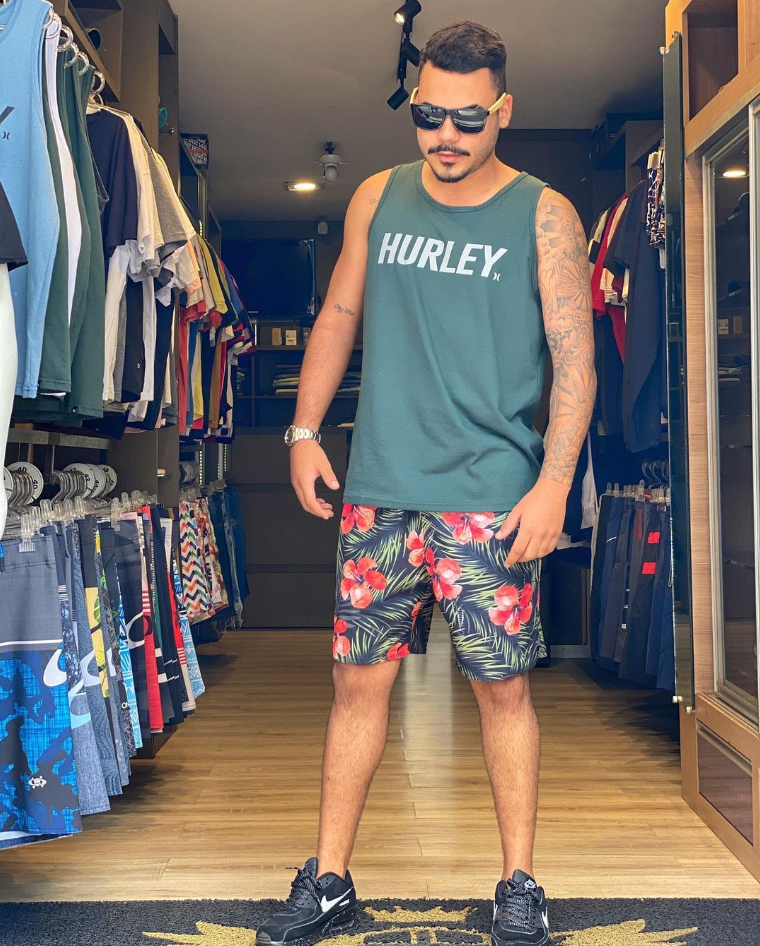
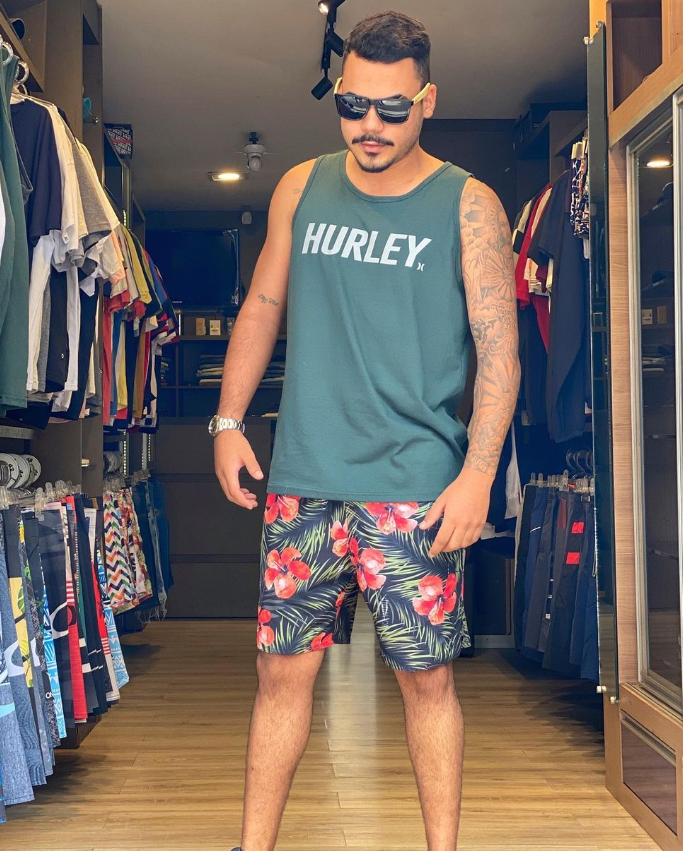
mudando tamanho da imagem

diff --git a/index.html b/index.html
@@ -47,7 +47,7 @@
         <section id="section1" class="container mt-4 pt-4 mb-5">
             <div class="row text-center">
                 <div class="col-12 col-lg-6 xxl-6 p-0">
-                    <img id="jaopedro" src="assets/jaozin.png" alt="" style="height:38rem">
+                    <img class="w-100 h-100" src="assets/jaozin.png" alt="" style="height:30rem">
                 </div>
                 <div class="col-12 col-lg-6 xxl-6 pt-5 d-flex flex-column justify-content-center">
                     <h1>Via Mix Importados</h1>

diff --git a/style.css b/style.css
@@ -82,10 +82,6 @@ body {
    background-color: rgba(22, 19, 19, 0.582);
 }
 
-#section3{
-    
-}
-
 .btn{
     
     background-color: rgba(150, 148, 35, 0.651);
